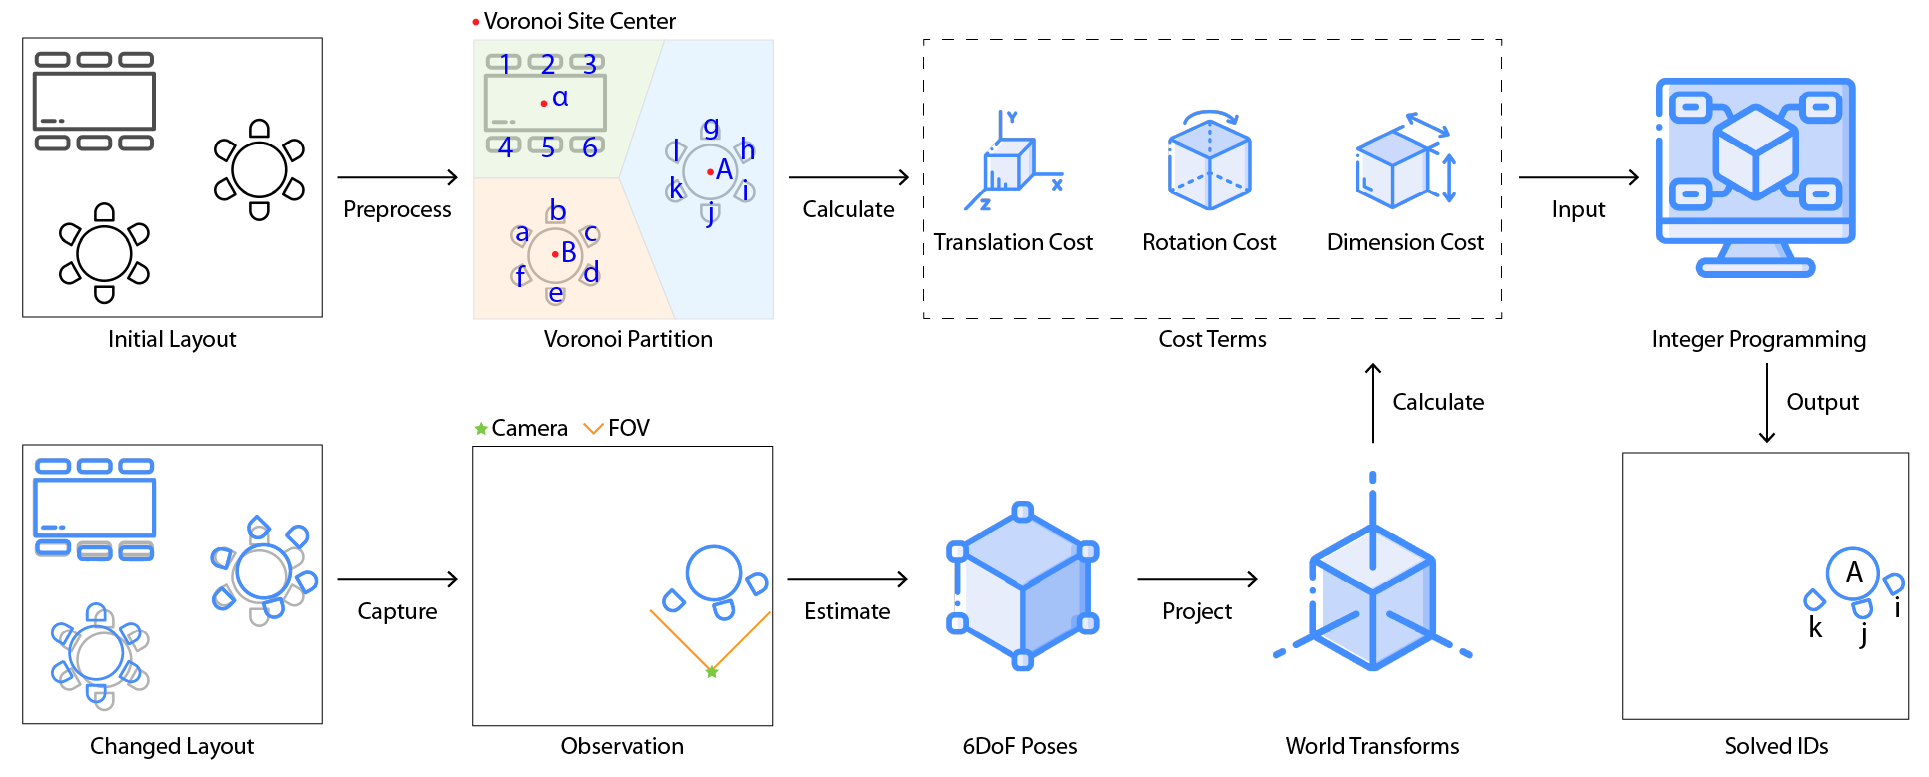
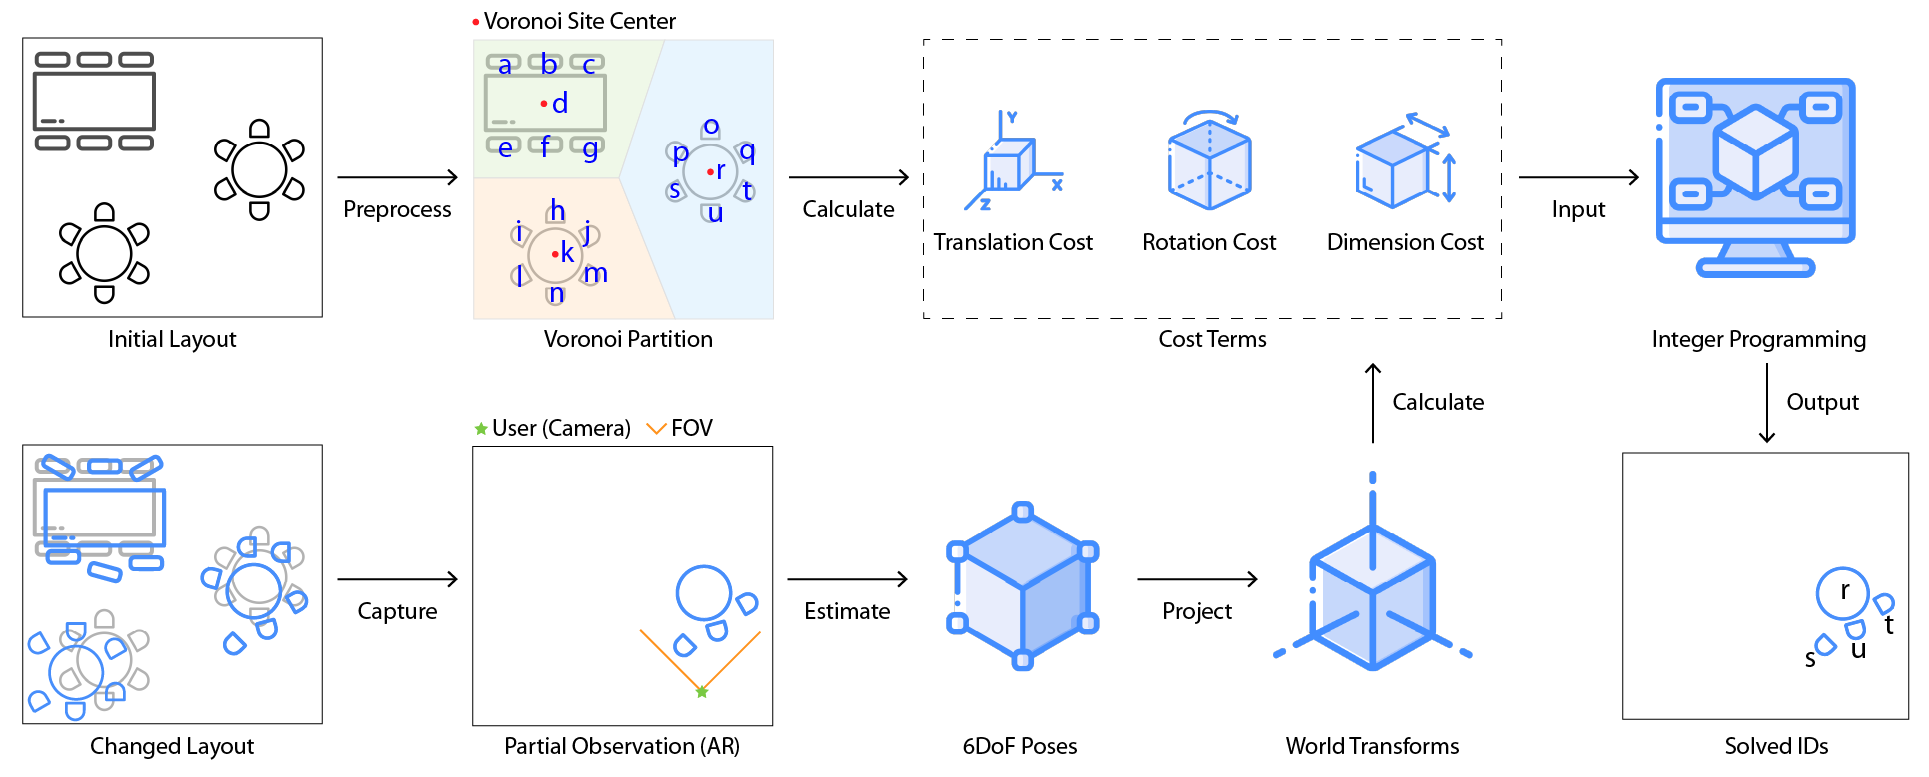
Update README.md

diff --git a/README.md b/README.md
@@ -1,6 +1,8 @@
 # Enriching AR Interaction
 
-This is the official implementation of the paper **Enriching Physical-Virtual Interaction in AR Gaming by Tracking Identical Real Objects**.
+This is the official implementation of the paper **Enriching Physical-Virtual Interaction in AR Gaming by Tracking Identical Objects via an Egocentric Partial Observation Frame**.
+
+![Layouts](ReadMe/intro.png)
 
 ## Development Environment
 
